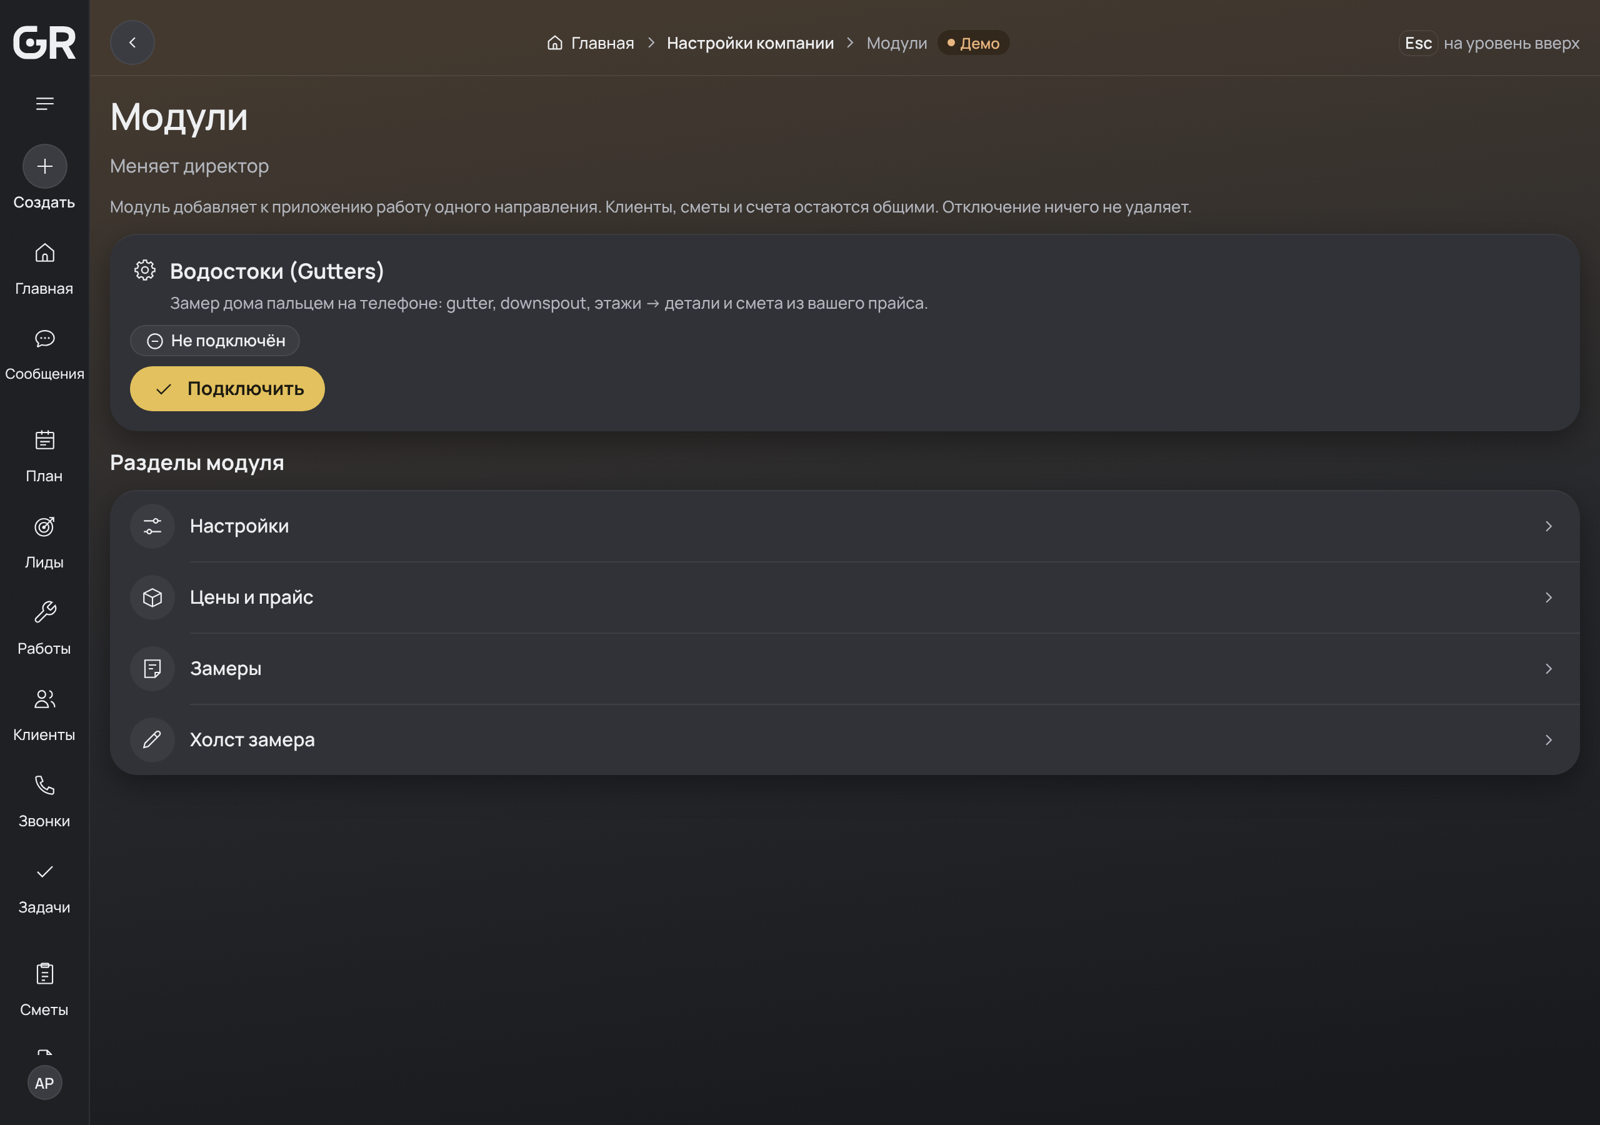
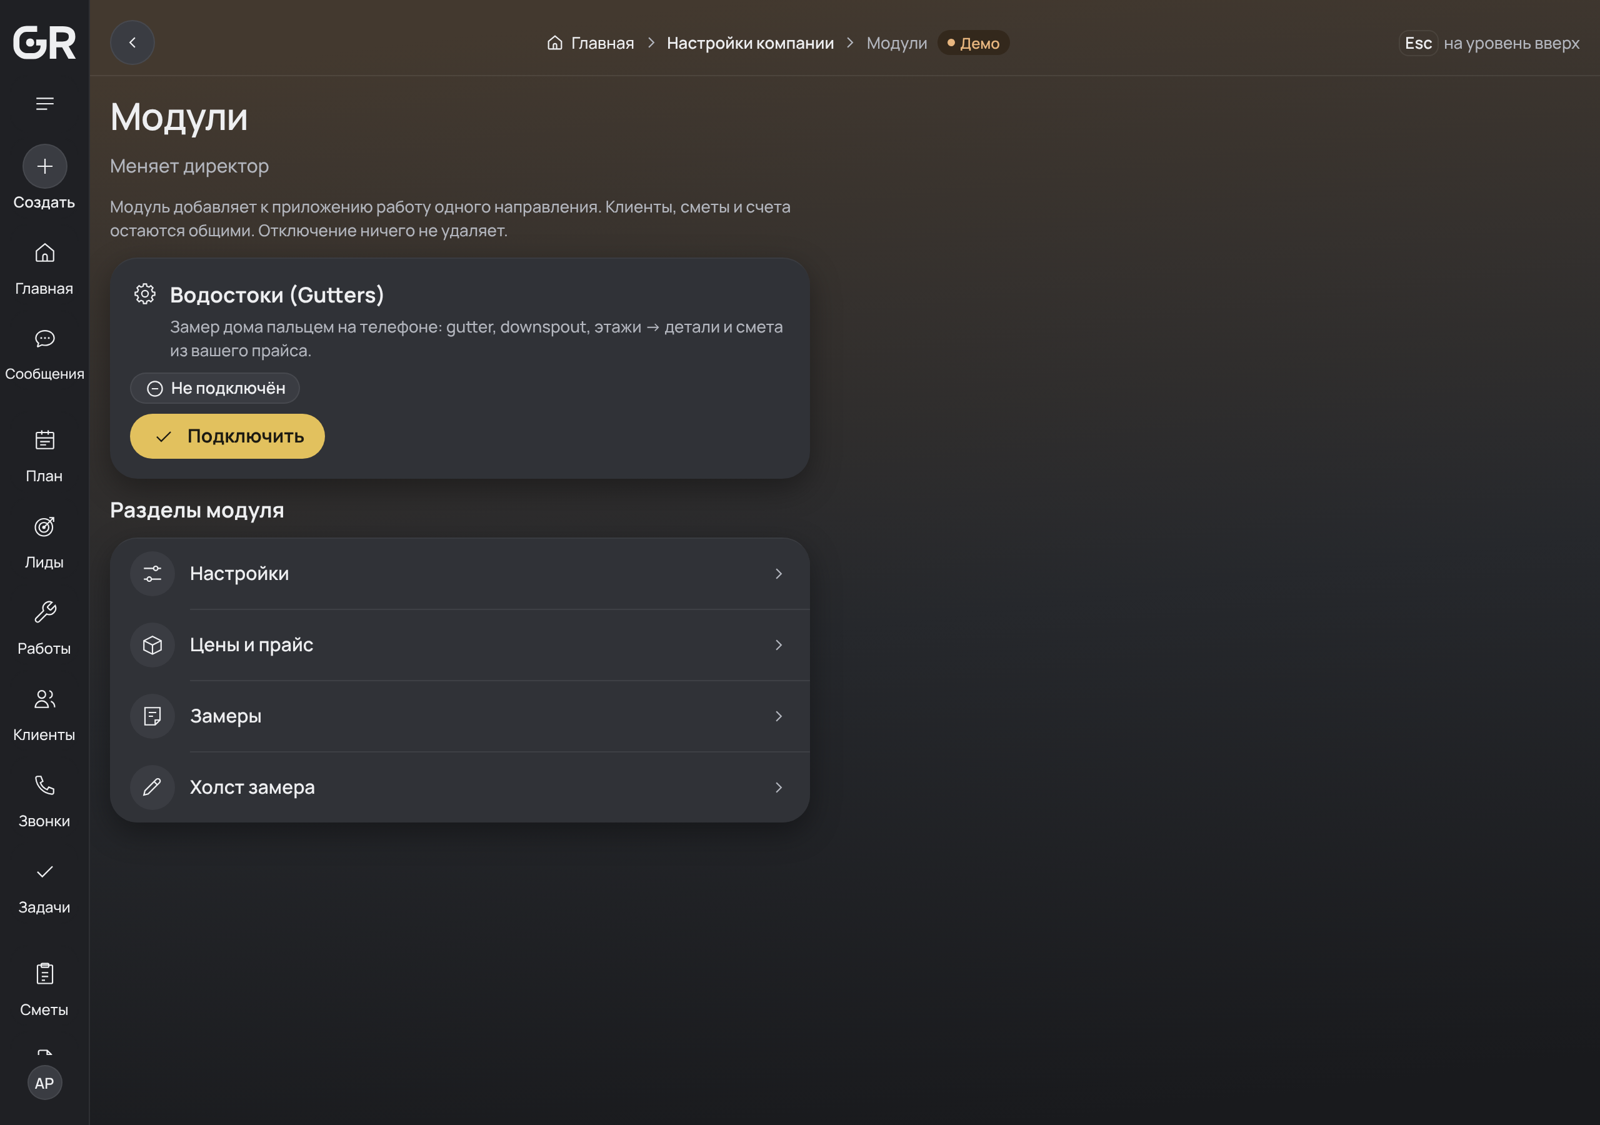
#3065: «Модули» по решению руководителя — «Отключить» красной строкой, у истёкшего только «Оплатить», офису «Только просмотр», колонка 560
Leader 27.11 (design/crm review advice): «Отключить» is the last row of its own group, a red word (ActionRow bad); an expired
trial shows only «Оплатить» (soon); the office's «Настройки» row says «Только просмотр»; the screen is a form column
(layout.formMax 560) on 820/1280. DS §7.5 says both (the danger row, the settings column). testIDs kept.

Claude-Session: https://claude.ai/code/session_015CqH66LwfSzhi561daugYm

diff --git a/apps/mobile/src/app/company/modules.tsx b/apps/mobile/src/app/company/modules.tsx
@@ -18,6 +18,7 @@ import { Icon, T } from "@/ui/primitives";
 import { useToast } from "@/ui/overlays";
 import { Card, Empty, RowView, Screen } from "@/ui/surfaces";
 import { GroupRow, ListGroup } from "@/ui/groupedList";
+import { ActionRow } from "@/ui/multiValueField";
 
 export default function CompanyModules() {
   const store = useStore();
@@ -36,13 +37,14 @@ export default function CompanyModules() {
   const saved = (key: Parameters<typeof t>[0]) => (store.online ? t(key) : t("offline.queued"));
   const noTerm = store.mode === "demo" || c.developerAccount === true;
 
-  // #3065 (founder 27.11, #3064): no column of buttons — the module's places are rows «›» of one group, and one main action
-  // («Подключить» / «Отключить»); only an expired trial has two side by side: «Оплатить» (off, soon) and «Отключить»
+  // #3065 (founder 27.11, #3064; DS §7.5): no column of buttons — one main action in the card («Подключить»; an expired trial —
+  // «Оплатить», soon); the module's places are rows «›» of one group; «Отключить» — the last row of the group, a red word (the iOS
+  // «Удалить приложение» row; leader 27.11: crm-reviewer's advice). The office sees «Настройки» with «Только просмотр».
   const card = (d: ModuleDef) => {
     const v = moduleView(c.modules?.[d.key]);
     const title = t(d.titleKey);
     const places = d.places?.settings?.({ role: store.role }, store.db.moduleData?.[d.key]) ?? [];
-    const enable =
+    const main =
       v.main === "start" || v.main === "resume" ? (
         <View testID={`module-${d.key}-enable`}>
           <Button
@@ -51,13 +53,12 @@ export default function CompanyModules() {
             onPress={() => toast.show(saved(v.main === "start" ? (noTerm ? "mod.startedNoTerm" : "mod.started") : "mod.resumed"), store.enableModule(d.key))}
           />
         </View>
+      ) : v.main === "pay" ? (
+        <View testID={`module-${d.key}-pay`} style={{ gap: space[1] }}>
+          <Button label={t("mod.pay")} icon="wallet" disabled onPress={() => {}} />
+          <T v="caption" tone="mut">{t("mod.paySoon")}</T>
+        </View>
       ) : null;
-    const pay = v.main === "pay" ? <View testID={`module-${d.key}-pay`} style={{ flex: 1 }}><Button label={t("mod.pay")} icon="wallet" disabled full onPress={() => {}} /></View> : null;
-    const disable = v.canDisable ? (
-      <View testID={`module-${d.key}-disable`} style={pay ? { flex: 1 } : undefined}>
-        <Button label={t("mod.disable")} variant="secondary" full={!!pay} onPress={() => toast.show(saved("mod.disabled"), store.disableModule(d.key))} />
-      </View>
-    ) : null;
     return (
       <View key={d.key} testID={`module-${d.key}`} style={{ gap: space[3] }}>
         <Card>
@@ -73,25 +74,35 @@ export default function CompanyModules() {
           </View>
           {noTerm ? null : <T v="caption" tone="mut">{t("mod.price", { days: d.trialDays, price: money(d.priceCentsMonthly) })}</T>}
           {v.locked ? <T v="caption">{t("mod.lockedHint")}</T> : null}
-          {ro ? null : pay ? (
-            <View style={{ gap: space[1] }}>
-              <RowView>{pay}{disable}</RowView>
-              <T v="caption" tone="mut">{t("mod.paySoon")}</T>
-            </View>
-          ) : enable ? enable : disable}
+          {ro ? null : main}
         </Card>
         {/* the module's own places (spec 33 П20.3): its tools that save nothing show for everyone, on or off — rows «›», not buttons */}
         <ListGroup title={t("mod.places")} testID={`module-${d.key}-places`}>
           {places.map((a) => (
-            <GroupRow key={a.id} testID={`module-${d.key}-${a.id}`} title={t(a.labelKey)} lead={{ icon: a.icon }} chevron onPress={() => router.push(a.href as never)} />
+            <GroupRow
+              key={a.id}
+              testID={`module-${d.key}-${a.id}`}
+              title={t(a.labelKey)}
+              subtitle={ro && a.id === "settings" ? t("mod.readOnly") : undefined}
+              lead={{ icon: a.icon }}
+              chevron
+              onPress={() => router.push(a.href as never)}
+            />
           ))}
         </ListGroup>
+        {!ro && v.canDisable ? (
+          <ListGroup>
+            <View testID={`module-${d.key}-disable`} style={{ paddingHorizontal: space[4] }}>
+              <ActionRow tone="bad" label={t("mod.disable")} onPress={() => toast.show(saved("mod.disabled"), store.disableModule(d.key))} />
+            </View>
+          </ListGroup>
+        ) : null}
       </View>
     );
   };
 
   return (
-    <Screen title={t("mod.title")} back={back} subtitle={t("schs.who")}>
+    <Screen title={t("mod.title")} back={back} subtitle={t("schs.who")} form>
       {ro ? <StatusChip status="info" label={t("fix.co.readOnly")} soft /> : null}
       <T v="caption" tone="mut">{t("mod.intro")}</T>
       {allModules().map(card)}

diff --git a/apps/mobile/src/i18n/ru.ts b/apps/mobile/src/i18n/ru.ts
@@ -3526,6 +3526,7 @@ export const ru = {
   "mod.tradesLink": "Дополнения для направления — например, замер дома на телефоне. Подключить и пробный период.",
   "mod.intro": "Модуль добавляет к приложению работу одного направления. Клиенты, сметы и счета остаются общими. Отключение ничего не удаляет.",
   "mod.places": "Разделы модуля",
+  "mod.readOnly": "Только просмотр",
   "mod.st.off": "Не подключён",
   "mod.st.disabled": "Отключён",
   "mod.st.trial": "Пробный · осталось {n} дн.",

diff --git a/apps/mobile/src/i18n/es.ts b/apps/mobile/src/i18n/es.ts
@@ -3526,6 +3526,7 @@ export const es: Dict = {
   "mod.tradesLink": "Complementos para un oficio — por ejemplo, medir una casa en el teléfono. Activar y la prueba gratis.",
   "mod.intro": "Un módulo agrega a la app el trabajo de un oficio. Clientes, presupuestos y facturas siguen siendo comunes. Desactivarlo no borra nada.",
   "mod.places": "Secciones del módulo",
+  "mod.readOnly": "Solo lectura",
   "mod.st.off": "No activado",
   "mod.st.disabled": "Desactivado",
   "mod.st.trial": "Prueba · quedan {n} días",

diff --git a/apps/mobile/src/i18n/en.ts b/apps/mobile/src/i18n/en.ts
@@ -3526,6 +3526,7 @@ export const en: Dict = {
   "mod.tradesLink": "Add-ons for a trade — for example, measuring a house on the phone. Turn on and the free trial.",
   "mod.intro": "A module adds the work of one trade to the app. Clients, estimates and invoices stay shared. Turning it off deletes nothing.",
   "mod.places": "Module sections",
+  "mod.readOnly": "View only",
   "mod.st.off": "Not on",
   "mod.st.disabled": "Turned off",
   "mod.st.trial": "Trial · {n} days left",

diff --git a/design/naryad-ds/DESIGN-SYSTEM.md b/design/naryad-ds/DESIGN-SYSTEM.md
@@ -595,7 +595,9 @@
 - **Переходы и разделы — не кнопки.** «Настройки», «Цены и прайс», «Замеры», «Шаблоны», «Холст» и всё, что открывает другой экран, — строки `GroupRow` с «›» в группе `ListGroup` (правило 12; значок слева, слово, «›» справа), как ячейки iOS «Настройки».
 - **Редкие и прочие действия — в «⋯»** (`ActionMenu`, Б4): «Изменить», «PDF», «Поделиться», «В архив», «Удалить». Опасное — последним, красным словом.
 - **Кнопки не переносятся столбиком.** Три и больше кнопок одна под другой (или рядом) в одном контейнере — ошибка: что-то из них — переход (строка), что-то — редкое («⋯»). Исключение — подвал шторки и диалог, где HIG ставит подтверждение над отменой (§7.3, Б1), и не больше двух.
-- **Как выглядит правильно** (образец — «Компания → Модули», #3065): карточка — имя, статус (значок + слово), одна главная кнопка («Подключить» / «Отключить»); под ней группа «Разделы модуля» — строки «›».
+- **Опасное и редкое действие объекта на экране настроек** («Отключить модуль», «Удалить …») — не кнопка рядом с главной, а последняя строка группы красным словом (`ActionRow tone="bad"`), как «Удалить приложение» в iOS; возврат — тост «Вернуть» (правило 5).
+- **Экраны настроек на 820/1280 — колонкой `layout.formMax` 560** (`Screen form`): строки «›» не растягиваются на всю ширину, «›» стоит рядом со словом (руководитель 27.11, совет design-reviewer).
+- **Как выглядит правильно** (образец — «Компания → Модули», #3065): карточка — имя, статус (значок + слово), одна главная кнопка («Подключить»; у истёкшего пробного — «Оплатить»); под ней группа «Разделы модуля» — строки «›» (у офиса на «Настройках» подпись «Только просмотр»); последней — строка «Отключить» красным словом.
 - **Сторож** — `designSystem.test.ts` «no column of buttons»: в одном JSX-контейнере ≥ 3 кнопок `Button` (с обёрткой `View` и условием `cond ? <Button/> : …`; `.map(…)` кнопок считается как 3) — красный. Старые места — список `BUTTON_COLUMNS_LEFT` по файлам с числом, он только сокращается (правило 29); исправляются волнами по зонам (#3065 прочёс).
 - **Витрина:** «Кнопки» → «Не столбик кнопок · §7.5» — «неправильно» (столбик) и «правильно» (одна главная + строки «›») рядом.
 
